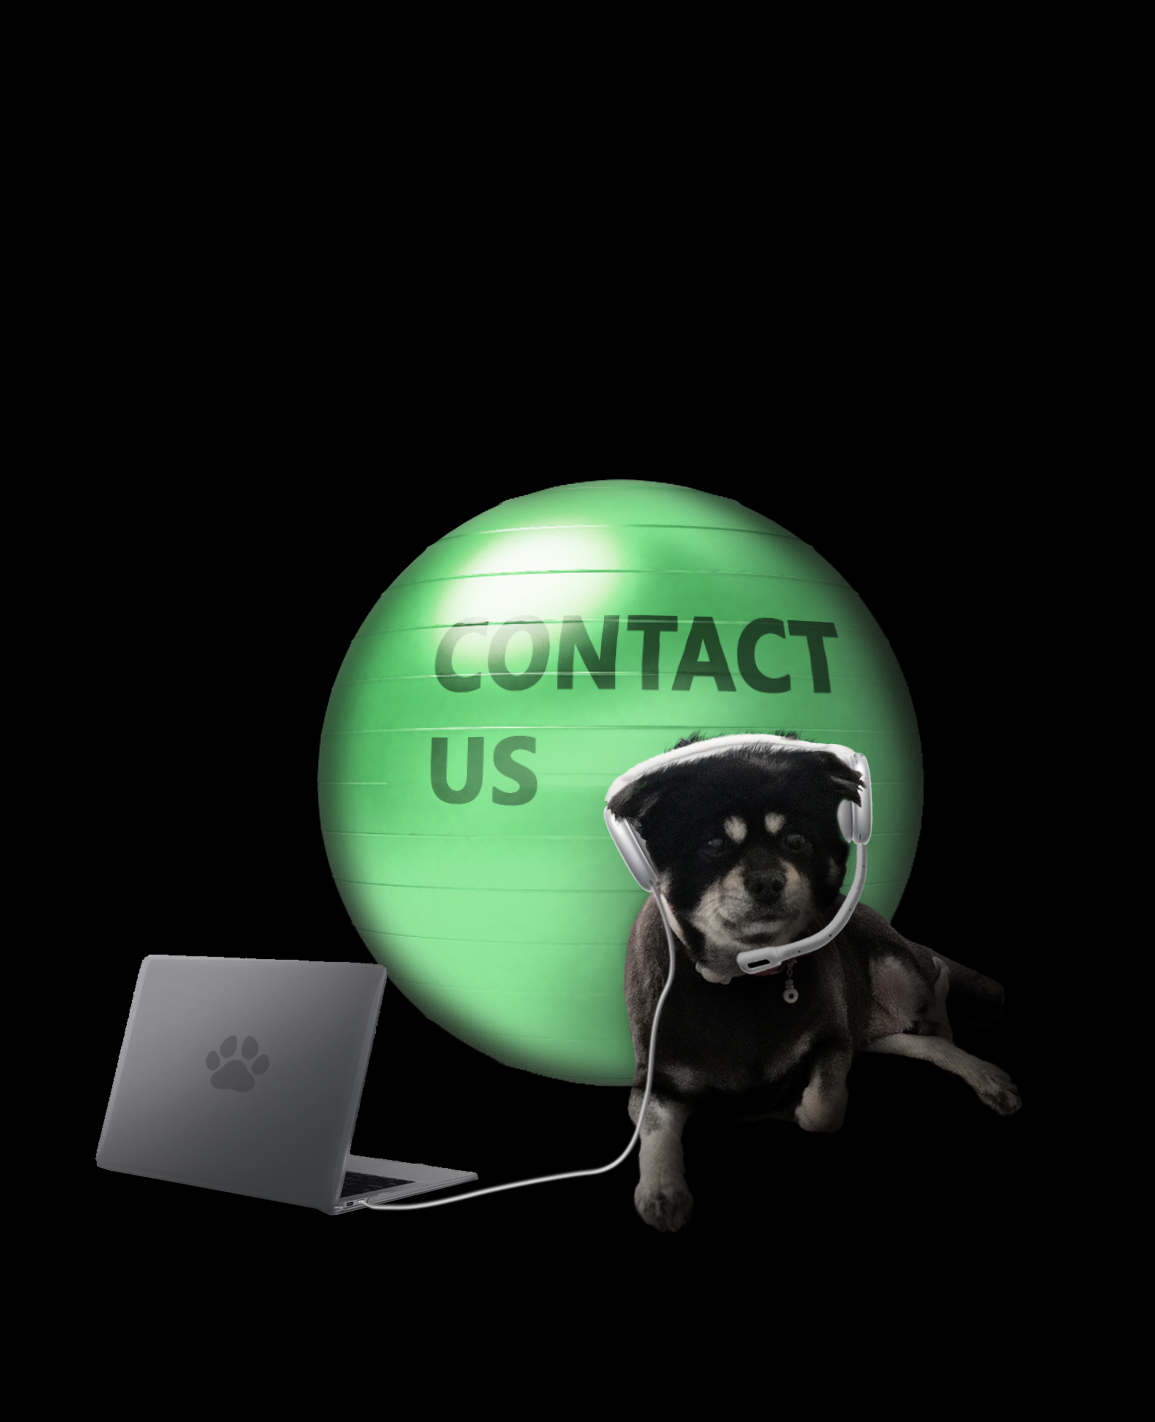
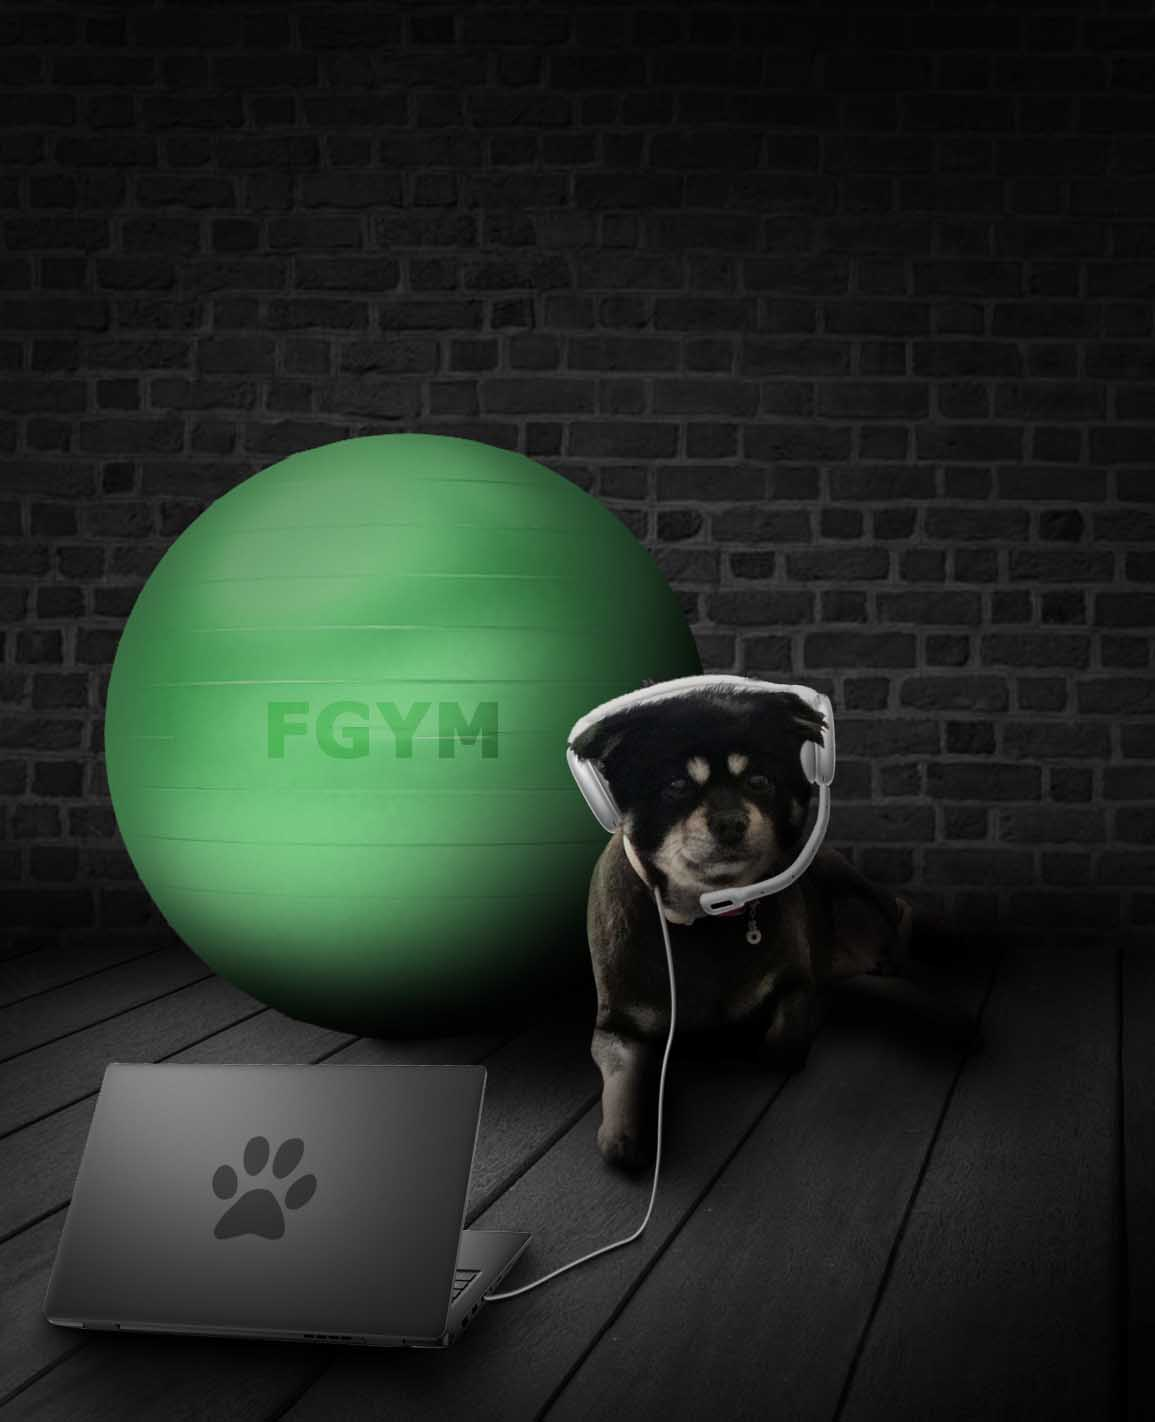
fix images

diff --git a/src/components/layout/Menu.js b/src/components/layout/Menu.js
@@ -8,21 +8,30 @@ const Menu = ({ dark = true }) => {
 
   return (
     <>
-      <div className="fixed right-6 z-50 cursor-pointer" onClick={handleClick}>
-        <div
-          className={classNames(
-            "mb-4 h-[3px] w-10 origin-left transition-transform",
-            dark ? "bg-white" : "bg-black",
-            menuStatus ? "rotate-45" : "rotate-0"
-          )}
-        ></div>
-        <div
-          className={classNames(
-            "h-[3px] w-10 origin-left transition-transform",
-            dark ? "bg-white" : "bg-black",
-            menuStatus ? "translate-y-0.5 -rotate-45" : "rotate-0"
-          )}
-        ></div>
+      <div
+        className="fixed right-6 z-50 flex h-10 w-10 cursor-pointer items-center"
+        onClick={handleClick}
+      >
+        <div>
+          <div
+            className={classNames(
+              "mb-4 h-[3px] w-10 origin-left transition-transform",
+              dark ? "bg-white" : "bg-black",
+              menuStatus
+                ? "translate-x-[6px] -translate-y-[4px] rotate-45"
+                : "rotate-0"
+            )}
+          ></div>
+          <div
+            className={classNames(
+              "h-[3px] w-10 origin-left transition-transform",
+              dark ? "bg-white" : "bg-black",
+              menuStatus
+                ? "translate-x-[6px] translate-y-[4px] -rotate-45"
+                : "rotate-0"
+            )}
+          ></div>
+        </div>
       </div>
       <div
         className={classNames(

diff --git a/src/pages/home/sections/Gym.js b/src/pages/home/sections/Gym.js
@@ -1,5 +1,5 @@
 import SectionTitle from "../SectionTitle";
-import ImgEmom from "../../../assets/programs/program_emom.jpg";
+import ImgGym from "../../../assets/gym.jpg";
 import Button from "../../../components/common/Button";
 
 const Gym = () => {
@@ -7,8 +7,8 @@ const Gym = () => {
     <div className="relative h-full w-full">
       <div className="absolute top-16 left-1/2 z-0 h-1/2 w-10/12 -translate-x-1/2 transform overflow-hidden bg-black md:top-1/2 md:right-0 md:left-auto md:h-3/4 md:w-2/3 md:-translate-x-0 md:-translate-y-1/2">
         <img
-          className="h-full w-full object-contain"
-          src={ImgEmom}
+          className="h-full w-full object-cover"
+          src={ImgGym}
           alt="trainer_photo"
         />
         <div className="fgym-image-cover bg-black">

diff --git a/src/pages/home/home.css b/src/pages/home/home.css
@@ -4,12 +4,13 @@ body {
     background: radial-gradient(circle, rgba(31, 31, 31, 1) 0%, rgba(0, 0, 0, 1) 50%, rgba(26, 26, 26, 1) 100%);
     /* background-image: linear-gradient(to bottom, #072142, #061c37, #07182b, #061220, #020b16); */
         /* background-image: linear-gradient(to bottom, #2c2c2c, #252525, #222222, #000000); */
-    background: radial-gradient(circle, rgba(31, 31, 31, 1) 0%, rgba(0, 0, 0, 1) 50%, rgb(12 12 12) 100%);
+    background: radial-gradient(circle, rgba(31, 31, 31, 1) 0%, rgba(0, 0, 0, 1) 50%, rgb(32 32 32) 100%);
+    /* background: radial-gradient(circle, rgba(31, 31, 31, 1) 0%, rgba(0, 0, 0, 1) 50%, rgb(12 12 12) 100%); */
 }
 
-img {
+/* img {
     filter: grayscale(100%) brightness(40%);
-}
+} */
 
 .active .fgym-image-cover {
     position: absolute;

diff --git a/src/pages/home/sections/About.js b/src/pages/home/sections/About.js
@@ -6,7 +6,7 @@ const About = () => {
     <div className="relative h-full w-full">
       <div className="absolute top-16 left-1/2 z-0 h-1/2 w-10/12 -translate-x-1/2 transform overflow-hidden bg-black md:top-1/2 md:right-0 md:left-auto md:h-3/4 md:w-2/3 md:-translate-x-0 md:-translate-y-1/2">
         <img
-          className="h-full w-full object-contain"
+          className="absolute h-full w-full object-cover"
           src={adinamia}
           alt="trainer_photo"
         />

diff --git a/src/pages/home/sections/Contact.js b/src/pages/home/sections/Contact.js
@@ -11,7 +11,7 @@ const Contact = () => {
     <div className="relative h-full w-full">
       <div className="absolute top-16 left-1/2 z-0 h-1/2 w-10/12 -translate-x-1/2 transform overflow-hidden bg-black md:top-1/2 md:right-0 md:left-auto md:h-3/4 md:w-2/3 md:-translate-x-0 md:-translate-y-1/2">
         <img
-          className="h-full w-full object-contain"
+          className="h-full w-full object-cover"
           src={contactImg}
           alt="trainer_photo"
         />

diff --git a/src/pages/home/Home.js b/src/pages/home/Home.js
@@ -143,7 +143,7 @@ const Home = () => {
 
       {/* background */}
       <div
-        className="pointer-events-none fixed inset-0 z-0 flex h-full w-full items-center justify-center text-[27rem] font-bold text-white opacity-5"
+        className="pointer-events-none fixed inset-0 z-0 flex h-full w-full items-center justify-center text-[32vw] font-bold text-white opacity-5"
         style={{ transform: backgroundTransform }}
       >
         FGYM
